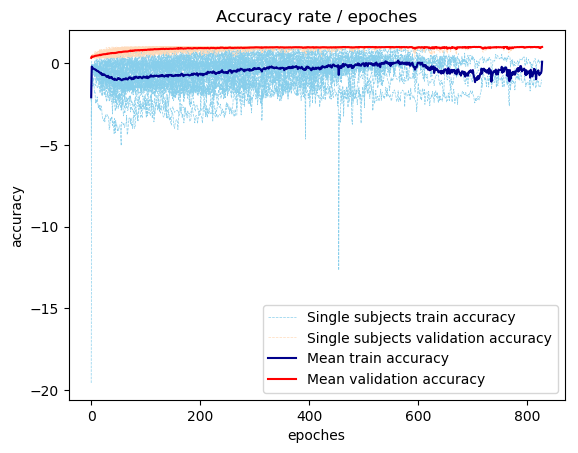
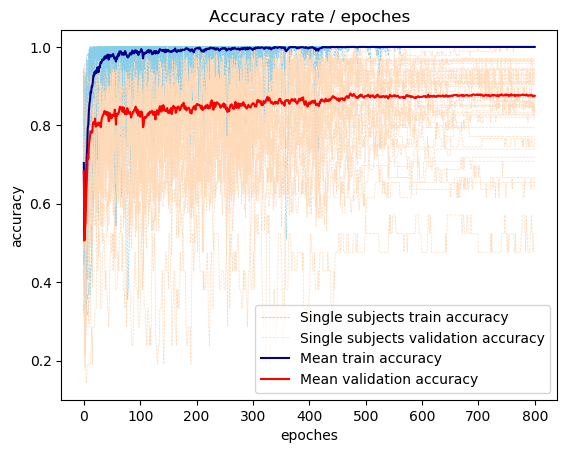
a

diff --git a/plots.py b/plots.py
@@ -1,0 +1,176 @@
+import numpy as np
+import matplotlib.pyplot as plt
+import seaborn as sn
+import pandas as pd
+import matplotlib.pyplot as plt
+from matplotlib import colors as mcolors
+
+
+def getAccBeforeFinetune(details):
+    if details[0] == 'deep' and details[1] == 'cropped':
+        return (1 - 0.250749)
+    elif details[0] == 'deep' and details[1] == 'trialwise':
+        return (1 - 0.246169)
+    elif details[0] == 'shallow' and details[1] == 'cropped':
+        return (1 - 0.528161)
+    elif details[0] == 'shallow' and details[1] == 'trialwise':
+        return (1 - 0.479347)
+
+# plotTypes = ['accuracy'] # plotTypes = ['accuracy', 'misclass']
+# models = ['deep', 'shallow']
+# trainingType = ['cropped', 'shallow']
+# learningStyle = ['finetune', 'single']
+def processSinglePlots(learningStyle, trainingType, plotTypes, models):
+    np.set_printoptions(precision=4, threshold=np.inf)
+
+    # plotTypes = ['accuracy'] # plotTypes = ['accuracy', 'misclass']
+    # models = ['deep', 'shallow']
+
+    for p in plotTypes:
+        for j in models:
+            for k in trainingType:
+                plotType = p
+                model = j
+                colors = dict(mcolors.BASE_COLORS, **mcolors.CSS4_COLORS)
+
+                meanTrain = np.zeros((2, 2000))
+                meanVal = np.zeros((2, 2000))
+                meanTest = np.zeros((2, 2000))
+                for subject in range(1,53):
+                    try:
+                        if learningStyle == 'finetune':
+                            subjectData = np.load("finetuneCrossSubjects\{}-{}-singleSubjectNum{}-2.5sec-800epoches.npy".format(model, k, subject))
+                        else: #single
+                            subjectData = np.load("logsSingleSubjects\{}-{}-singleSubjectNum{}-2.5sec-800epoches.npy".format(model, k, subject))
+
+                        # print(subjectData.shape)
+                        if subject == 1: # different case to create legend only once     
+                            if plotType == 'accuracy':
+                                plt.plot((1- subjectData[:,2]), color=colors['skyblue'], linestyle='dashed', linewidth=0.5, label='Single subjects train accuracy')
+                                plt.plot((1- subjectData[:,3]), color=colors['peachpuff'], linestyle='dashed', linewidth=0.5, label='Single subjects validation accuracy')
+                            else:
+                                plt.plot(subjectData[:,2], color=colors['skyblue'], linestyle='dashed', linewidth=0.5, label='Single subjects train misclass')
+                                plt.plot(subjectData[:,3], color=colors['peachpuff'], linestyle='dashed', linewidth=0.5, label='Single subjects validation misclass')
+
+                        else:
+                            if plotType == 'accuracy':
+                                plt.plot((1- subjectData[:,2]), color=colors['skyblue'], linestyle='dashed', linewidth=0.5)
+                                plt.plot((1- subjectData[:,3]), color=colors['peachpuff'], linestyle='dashed', linewidth=0.5)
+                            else:
+                                plt.plot(subjectData[:,2], color=colors['skyblue'], linestyle='dashed', linewidth=0.5)
+                                plt.plot(subjectData[:,3], color=colors['peachpuff'], linestyle='dashed', linewidth=0.5)
+
+                        for index in range(0, len(subjectData)):
+                            if plotType == 'accuracy':
+                                meanTrain[0, index] += 1 - subjectData[index, 2]
+                                meanVal[0, index] += 1 - subjectData[index, 3]
+                            else:
+                                meanTrain[0, index] += subjectData[index, 2]
+                                meanVal[0, index] += subjectData[index, 3]
+                            meanTrain[1,index] += 1
+                            meanVal[1,index] += 1
+                            meanTest[1,index] += 1
+                    except:
+                        continue
+
+                if plotType == 'accuracy':
+                    plt.title('Accuracy rate / epoches')
+                    plt.ylabel('accuracy')
+                else:
+                    plt.title('Misclass rate / epoches')
+                    plt.ylabel('misclass')
+                plt.xlabel('epoches')
+                plt.plot(meanTrain[0]/meanTrain[1], color=colors['darkblue'], linestyle='solid', linewidth=1.5, label='Mean train accuracy')
+                plt.plot(meanVal[0]/meanVal[1], color=colors['red'], linestyle='solid', linewidth=1.5, label='Mean validation accuracy')
+                plt.legend(loc='best')
+                # plt.show()
+                plt.savefig("Plots\mean-{}-plot-{}-{}-finetune-2.5sec-800epoches.png".format(plotType, model, k), bbox_inches='tight')
+                plt.close()
+
+
+# xAxis = ['deep', 'cropped', 'single']
+# yAxis = ['shallow', 'trialwise', 'cross']
+def processSingleScatterPlots(xAxis, yAxis):
+    np.set_printoptions(precision=4, threshold=np.inf)
+    plotTypes = 'accuracy'
+    # models = ['deep', 'shallow']
+    # trainStrategies = ['cropped', 'trialwise']
+    colors = dict(mcolors.BASE_COLORS, **mcolors.CSS4_COLORS)
+
+    # xAxis = ['deep', 'cropped', 'single']
+    # yAxis = ['shallow', 'trialwise', 'cross']
+
+    accTestX = np.zeros(47)
+    accTestY = np.zeros(47)
+    j = 0
+    for subject in range(1,53):
+        bestY = 0
+        bestX = 0
+        try:
+            if xAxis[2] == 'single':
+                subjectDataX = np.load("logsSingleSubjects\{}-{}-singleSubjectNum{}-2.5sec-800epoches.npy".format(xAxis[0], xAxis[1], subject))
+            else:
+                accTestX[j] = 1 - np.load("finetuneCrossSubjects\{}-{}-singleSubjectNum{}-2.5sec-800epoches-testSetMisclass.npy".format(xAxis[0], xAxis[1], subject))
+
+            if yAxis[2] == 'single':
+                subjectDataY = np.load("logsSingleSubjects\{}-{}-singleSubjectNum{}-2.5sec-800epoches.npy".format(yAxis[0], yAxis[1], subject))
+            else:
+                accTestY[j] = 1 - np.load("finetuneCrossSubjects\{}-{}-singleSubjectNum{}-2.5sec-800epoches-testSetMisclass.npy".format(yAxis[0], yAxis[1], subject))                
+            
+            if xAxis[2] == 'single':
+                for i in range(0, len(subjectDataX)):
+                    if subjectDataX[i, 4] >= bestX:
+                        bestX = subjectDataX[i, 4]
+                        accTestX[j] = subjectDataX[i, 5]
+            if yAxis[2] == 'single':
+                for i in range(0, len(subjectDataY)): 
+                    if subjectDataY[i, 4] >= accTestY:
+                        accTestY = subjectDataY[i, 4]
+                        accTestY[j] = subjectDataY[i, 5]
+
+            j += 1
+        except:
+            continue
+
+    testMeanX = np.mean(np.trim_zeros(accTestX))*100
+    testMeanY = np.mean(np.trim_zeros(accTestY))*100
+    plt.title('Accuracy rate / epoches')
+    plt.ylabel('Accuracy [%]')
+    plt.xlabel('Accuracy [%]')
+
+    plt.plot(range(0, 101), color=colors['black'], linestyle='solid', linewidth=1)
+    plt.scatter(np.trim_zeros(accTestX)*100, np.trim_zeros(accTestY)*100, marker='+', color=colors['red'], label='Single subjects accuracy', linestyle='solid', alpha=0.5, linewidth=1.5)
+    plt.scatter(testMeanX, testMeanY, marker='o', color=colors['blue'], linestyle='solid', label='Mean accuracy', linewidth=1.5)
+
+    # add accuracy before finetuning
+    if yAxis[2] == 'cross' or xAxis[2] == 'cross':
+        # initial value is testMean so that if it is single it will compare to curr test accuracy
+        testBeforeFinetuneX = testMeanX
+        testBeforeFinetuneY = testMeanY
+        if xAxis[2] == 'cross':
+            # accuracy values are from the final epoch in the log file
+            testBeforeFinetuneX = getAccBeforeFinetune(xAxis)*100
+            print('test acc for x axis before finetune is {}'.format(testBeforeFinetuneX))
+        if yAxis[2] == 'cross':
+            # accuracy values are from the final epoch in the log file
+            testBeforeFinetuneY = getAccBeforeFinetune(yAxis)*100
+            print('test acc for y axis before finetune is {}'.format(testBeforeFinetuneY))
+
+        plt.scatter(testBeforeFinetuneX, testBeforeFinetuneY, marker='o', color=colors['green'], linestyle='solid', label='Accuracy before finetune', linewidth=1.5)
+    print("X: {}".format(xAxis))
+    print("Y: {}".format(yAxis))
+    print("Mean accuracies: X = {}, Y = {}".format(testMeanX, testMeanY))
+    plt.legend(loc='best')
+    plt.show()
+    # plt.savefig("Plots\scatterPlot-X-{}-Y-{}.png".format(xAxis, yAxis), bbox_inches='tight')
+    plt.close()
+
+# processSinglePlots('finetune', ['cropped', 'trialwise'], ['accuracy'], ['deep', 'shallow'])
+
+for yAxis in [['deep', 'cropped', 'cross'], ['deep', 'trialwise', 'cross']]:
+    for xAxis in [['shallow', 'cropped', 'cross'], ['shallow', 'trialwise', 'cross']]:
+        # print('xAxis')
+        # print(xAxis)
+        # print('yAxis')
+        # print(yAxis)
+        processSingleScatterPlots(xAxis, yAxis)

diff --git a/finetuneTrainedModel.py b/finetuneTrainedModel.py
@@ -59,7 +59,7 @@ from braindecode.torch_ext.util import set_random_seeds
 
 # Set if you want to use GPU
 # You can also use torch.cuda.is_available() to determine if cuda is available on your machine.
-cuda = True
+cuda = False
 set_random_seeds(seed=20170629, cuda=cuda)
 n_classes = 3
 in_chans = train_set.X.shape[1]
@@ -95,7 +95,7 @@ if th.cuda.is_available():
     checkpoint = th.load(path_to_classifier).state_dict()
 else:
     print('Cuda is not available.')
-    checkpoint = th.load(path_to_classifier, map_location='cpu')
+    checkpoint = th.load(path_to_classifier, map_location='cpu').state_dict()
 np.set_printoptions(suppress=True, threshold=np.inf)
 
 model.network.load_state_dict(checkpoint)

diff --git a/utils.py b/utils.py
@@ -3,6 +3,9 @@ from sklearn.utils import shuffle
 import matplotlib.pyplot as plt
 import seaborn as sn
 import pandas as pd
+import matplotlib.pyplot as plt
+from matplotlib import colors as mcolors
+from sklearn.metrics import confusion_matrix
 
 def loadSubjects(subjectNum, single_subject, single_subject_num):
     label0Counter = 0
